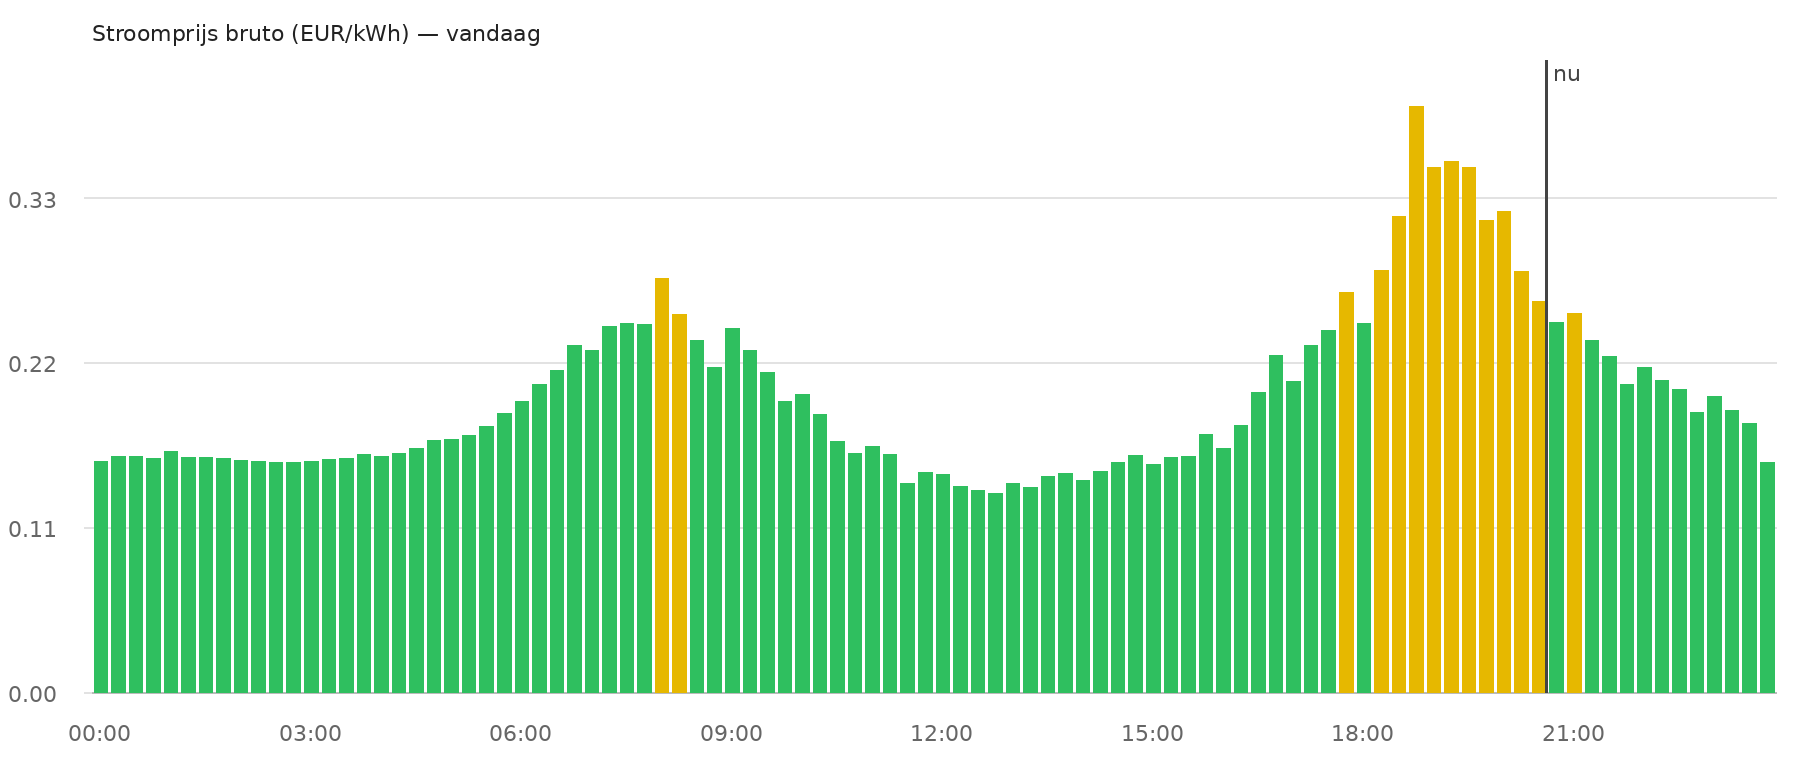
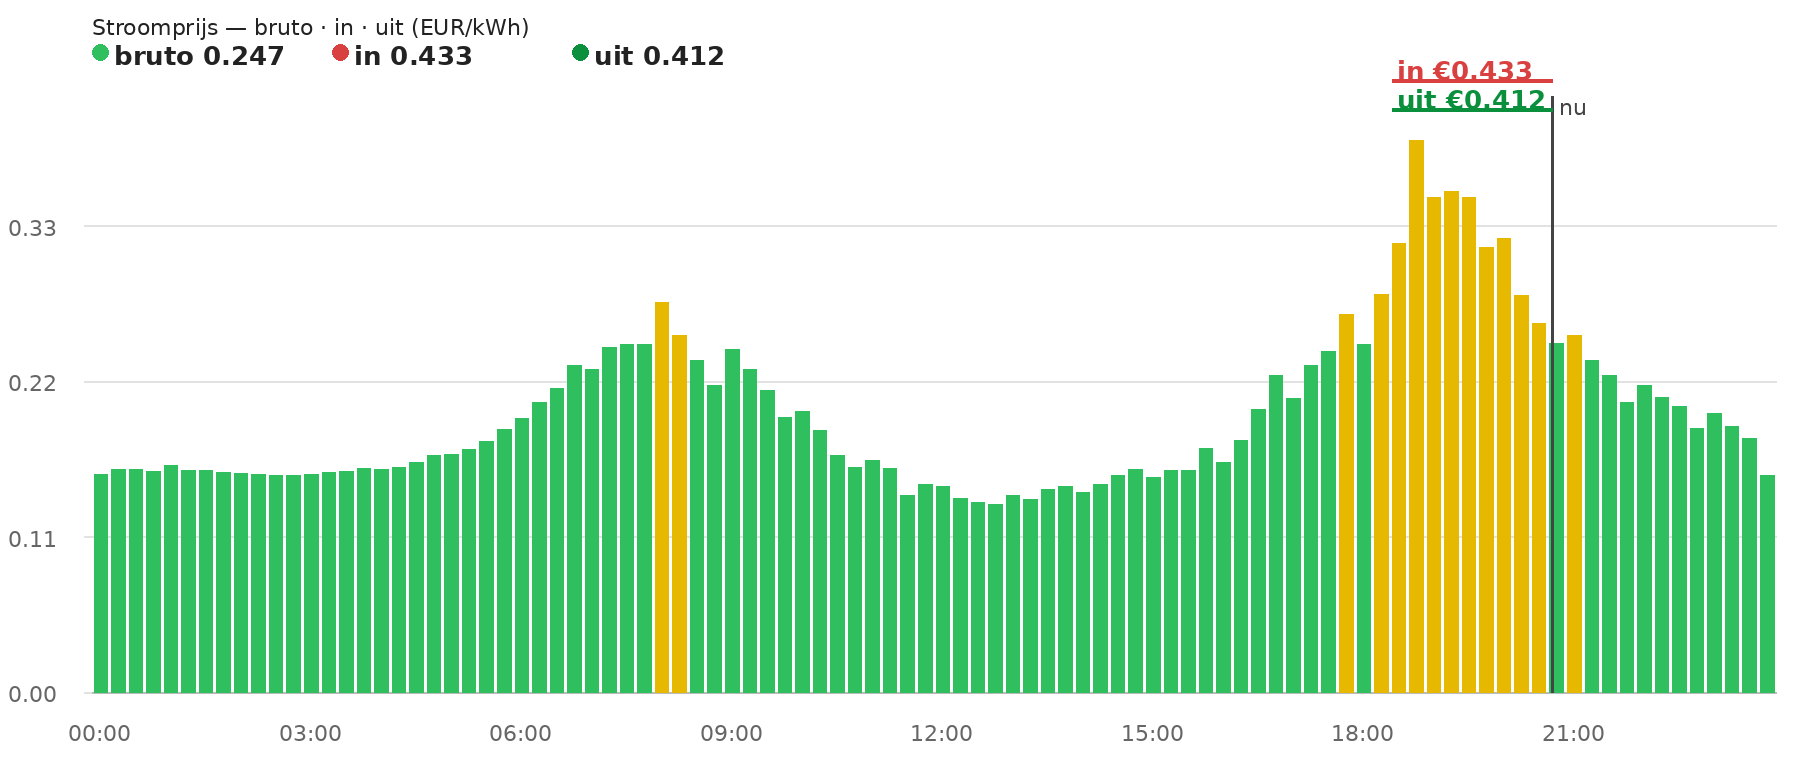
Daglijst per interval met in/uit all-in; README-kaart toont kopwaarden + lijnen; voorbeeldgrafiek ververst

diff --git a/README.md b/README.md
@@ -87,12 +87,17 @@ type: custom:apexcharts-card
 graph_span: 24h
 span:
   start: day
-title: Stroomprijs bruto (EUR/kWh)
+title: Stroomprijs — bruto · in · uit (EUR/kWh)
 now:
   show: true
   label: nu
+header:
+  show: true
+  show_states: true          # ← toont NU: basis / in / uit als kopwaarden
+colorize_states: auto
 series:
-  - entity: sensor.stroomprijs_daglijst
+  - entity: sensor.stroomprijs_basis
+    name: bruto
     type: column
     data_generator: >
       return entity.attributes.vandaag.map((e) => [new Date(e.t).getTime(), e.p]);
@@ -106,8 +111,41 @@ series:
         color: "#e6b800"
       - value: 0.4
         color: "#d94040"
+  - entity: sensor.stroomprijs_afname
+    name: in (all-in)
+    type: line
+    stroke_width: 2
+    color: "#d94040"
+    extend_to: now           # lijn stopt bij 'nu' — geen verzinsel over de toekomst
+  - entity: sensor.stroomprijs_levering
+    name: uit (all-in)
+    type: line
+    stroke_width: 2
+    color: "#0a8f3c"
+    extend_to: now
 yaxis:
   decimales: 3
+tooltip:
+  show: true
+```
+
+Bij de **nu**-lijn tonen de kopwaarden bovenin automatisch de actuele prijzen:
+bruto · **in** (afname all-in) · **uit** (levering all-in). Hover je over een staafje,
+dan geeft de tooltip bruto/in/uit voor dat kwartier — want de daglijst-sensor bevat per
+interval alle drie (`{t, p, in, uit}`). Wil je in/uit per interval in de grafiek zelf,
+vervang dan de twee lijn-series door:
+
+```yaml
+  - entity: sensor.stroomprijs_daglijst
+    name: in
+    type: line
+    data_generator: >
+      return entity.attributes.vandaag.map((e) => [new Date(e.t).getTime(), e.in]);
+  - entity: sensor.stroomprijs_daglijst
+    name: uit
+    type: line
+    data_generator: >
+      return entity.attributes.vandaag.map((e) => [new Date(e.t).getTime(), e.uit]);
 ```
 
 ## Werking & ontwerp
